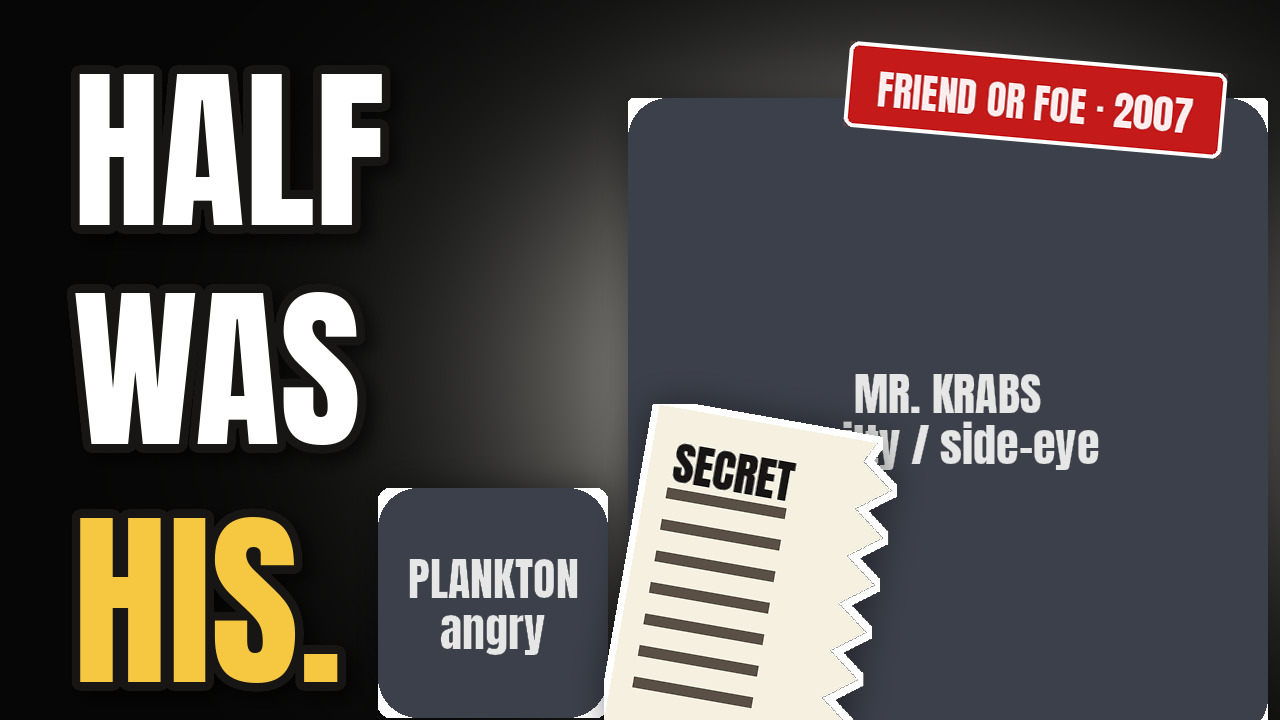
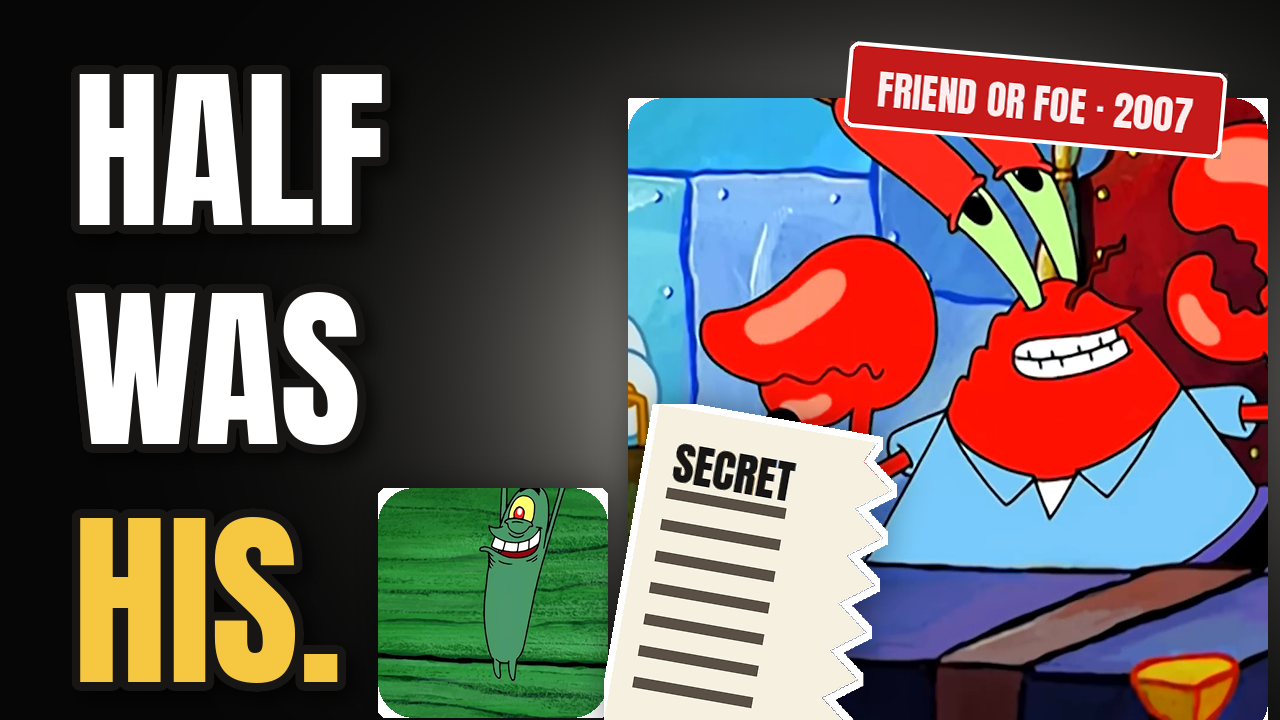
Final render: thumbnails from real frames, description with final chapter times
Claude-Session: https://claude.ai/code/session_019dHvfzMfbcC1GNSMjvXBdo

diff --git a/plankton-vs-krabs/05_DESCRIPTION.md b/plankton-vs-krabs/05_DESCRIPTION.md
@@ -13,23 +13,23 @@ July 31, 1999: a guy the size of a sesame seed tells Mr. Krabs he went to colleg
 The show's own origin story says Plankton and Krabs were best friends, and that the Krabby Patty was invented by both of them, by accident, during the fight that ended the friendship. I went back through Friend or Foe, Plankton's Regular, Enemy In-Law, One Coarse Meal and Plankton Retires to figure out who the actual bad guy is.
 
 0:00 July 31, 1999
-0:49 I was watching this wrong
-1:23 The smallest villain on TV
-2:11 The plan (every time)
-2:39 Three liars and a computer
-4:01 Karen's version
-4:51 Plabs
-5:08 The fight that made the Krabby Patty
-6:01 He was in the room
-6:22 The losing streak
-6:50 Plan Z
-7:33 One customer
-8:04 Okay, about Krabs
-8:27 One Coarse Meal
-8:56 62 cents
-9:23 Plankton Retires
-10:22 Who's the bad guy?
-11:14 He went to college
+0:54 I was watching this wrong
+1:28 The smallest villain on TV
+2:16 The plan (every time)
+2:43 Three liars and a computer
+4:08 Karen's version
+5:01 Plabs
+5:18 The fight that made the Krabby Patty
+6:16 He was in the room
+6:38 The losing streak
+7:10 Plan Z
+7:52 One customer
+8:28 Okay, about Krabs
+8:56 One Coarse Meal
+9:25 62 cents
+9:57 Plankton Retires
+11:00 Who's the bad guy?
+11:56 He went to college
 
 Episodes referenced:
 Plankton! (S1, 1999) · The Algae's Always Greener (S3) · Born Again Krabs (S3) · Plankton's Regular · Enemy In-Law (S4) · F.U.N. · Imitation Krabs · Plankton's Pet · Friend or Foe (S5, 2007) · Single Cell Anniversary · One Coarse Meal (S7) · Plankton Retires (S10, 2017) · The SpongeBob SquarePants Movie (2004) · Plankton: The Movie (Netflix, 2025)
